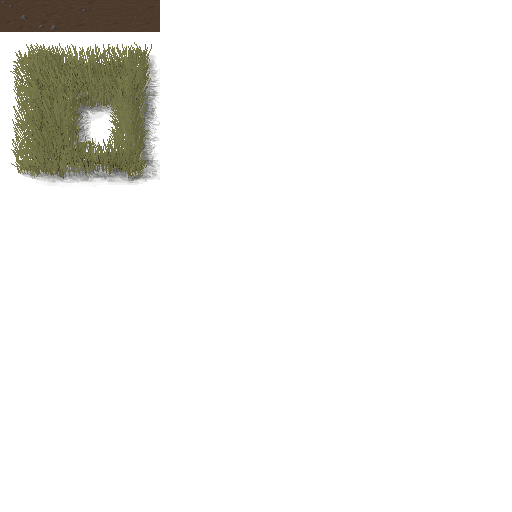
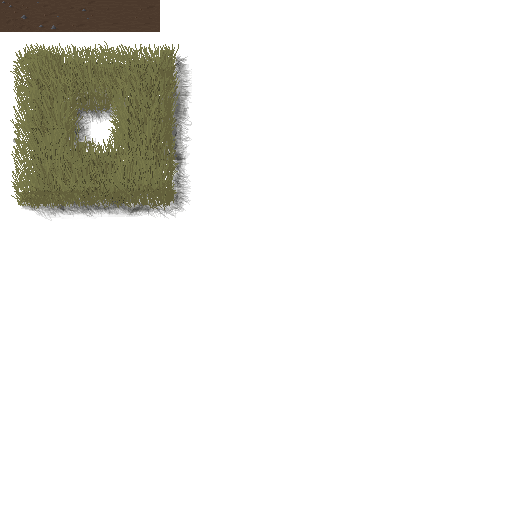
playing with the tile maps

Changed region(s): [[0.0, 0.0625, 0.375, 0.4375], [0.1562, 0.1875, 0.2188, 0.25]]

diff --git a/public/static/assets/custom/base_tile_set.tsx b/public/static/assets/custom/base_tile_set.tsx
@@ -1,4 +1,4 @@
 <?xml version="1.0" encoding="UTF-8"?>
-<tileset name="thewaste" tilewidth="16" tileheight="16" tilecount="1024" columns="32">
+<tileset name="base_tile_set2" tilewidth="32" tileheight="32" tilecount="256" columns="16">
  <image source="exports/base_tile_sheet.png" trans="ff00ff" width="512" height="512"/>
 </tileset>
